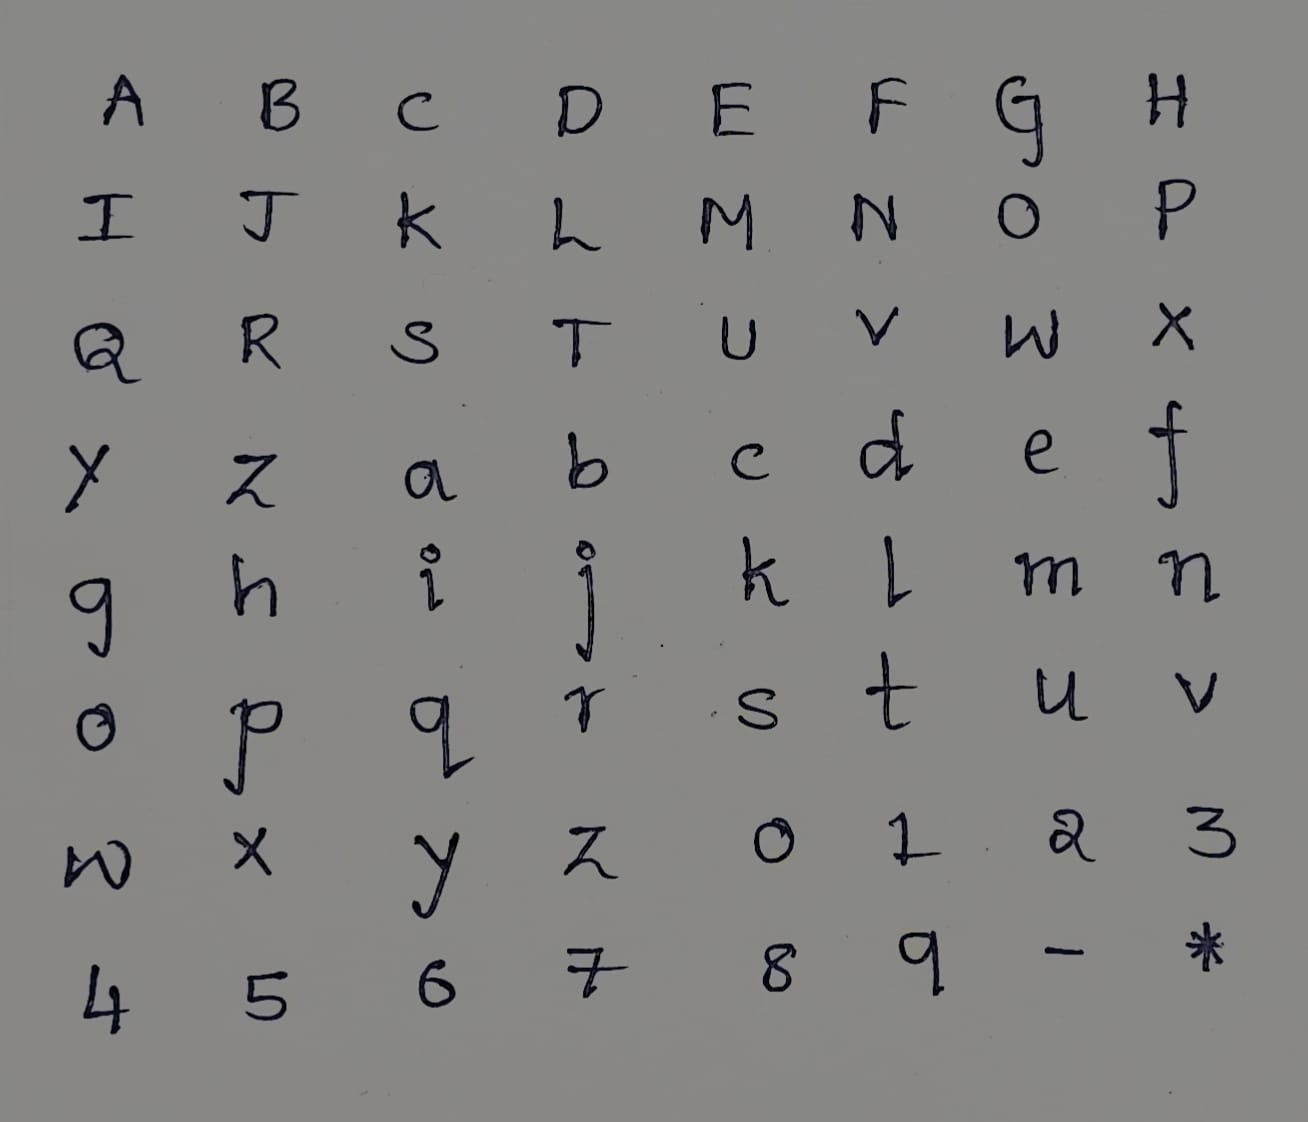
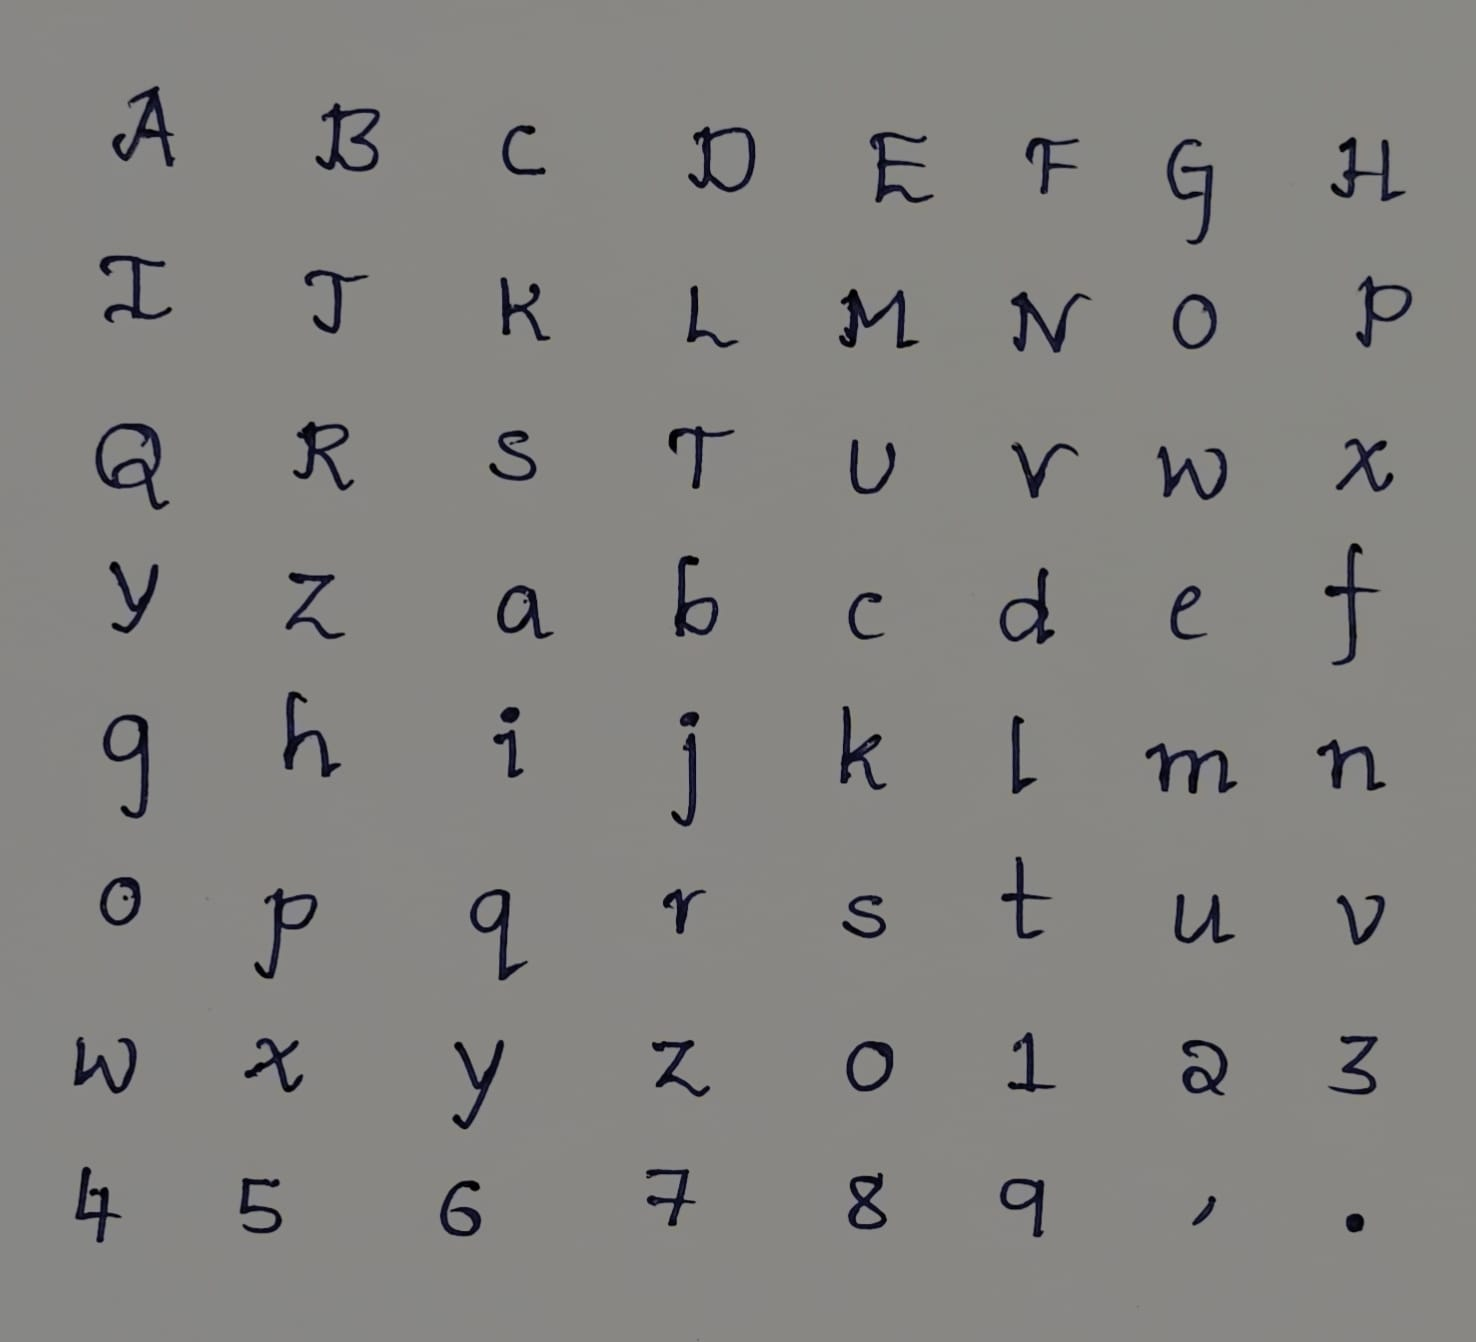
good afternoon

diff --git a/projects/extractor.py b/projects/extractor.py
@@ -5,15 +5,17 @@ from pathlib import Path
 import cv2
 import numpy as np
 
-DEFAULT_IMAGE_PATH = str(Path("handwriting_samples") / "handwriting.jpg")
-DEFAULT_OUTPUT_ROOT = "glyph_sets"
+PROJECT_DIR = Path(__file__).resolve().parent
+DEFAULT_IMAGE_DIR = PROJECT_DIR / "handwriting_samples"
+DEFAULT_IMAGE_PATH = str(DEFAULT_IMAGE_DIR / "handwriting.jpg")
+DEFAULT_OUTPUT_ROOT = PROJECT_DIR / "glyph_sets"
 
 GRID_ROWS = 8
 GRID_COLS = 8
 MIN_COMPONENT_AREA = 6
 PRIMARY_COMPONENT_AREA = 50
 
-LABELS = list("ABCDEFGHIJKLMNOPQRSTUVWXYZabcdefghijklmnopqrstuvwxyz0123456789-*")
+LABELS = list("ABCDEFGHIJKLMNOPQRSTUVWXYZabcdefghijklmnopqrstuvwxyz0123456789,.")
 
 ASCENDERS = set("bdfhklt")
 DESCENDERS = set("gjpqy")
@@ -22,11 +24,36 @@ X_HEIGHT_LOWER = set("acemnorsuvwxz")
 
 def default_output_folder(image_path):
     stem = Path(image_path).stem
-    return str(Path(DEFAULT_OUTPUT_ROOT) / stem)
+    return str(DEFAULT_OUTPUT_ROOT / stem)
 
 
 def default_debug_output_path(output_folder):
     return str(Path(output_folder) / "detected_grid_debug.png")
+
+
+def discover_handwriting_images(image_dir=DEFAULT_IMAGE_DIR):
+    directory = Path(image_dir)
+
+    if not directory.exists():
+        raise FileNotFoundError(f"Handwriting samples folder not found: {directory}")
+
+    images = sorted(directory.glob("handwriting*.jpg"))
+
+    if not images:
+        raise FileNotFoundError(
+            f"No handwriting sample images found in: {directory}"
+        )
+
+    return images
+
+
+def resolve_project_path(path_like):
+    path = Path(path_like)
+    if path.is_absolute():
+        return path
+    if path.exists():
+        return path.resolve()
+    return (PROJECT_DIR / path).resolve()
 
 
 def folder_name(letter):
@@ -34,10 +61,10 @@ def folder_name(letter):
         return letter + "_upper"
     if letter.islower():
         return letter + "_lower"
-    if letter == "-":
-        return "dash"
-    if letter == "*":
-        return "star"
+    if letter == ",":
+        return "comma"
+    if letter == ".":
+        return "dot"
     return letter
 
 
@@ -46,7 +73,7 @@ def glyph_group(letter):
         return "upper"
     if letter.isdigit():
         return "digit"
-    if letter in "-*":
+    if letter in ",.":
         return "symbol"
     if letter in ASCENDERS:
         return "lower_asc"
@@ -347,11 +374,17 @@ def save_debug_overlay(image, cells, path):
 
 
 def extract(image_path=DEFAULT_IMAGE_PATH, output_folder=None, debug_output_path=None):
+    image_path = str(resolve_project_path(image_path))
+
     if output_folder is None:
         output_folder = default_output_folder(image_path)
+    else:
+        output_folder = str(resolve_project_path(output_folder))
 
     if debug_output_path is None:
         debug_output_path = default_debug_output_path(output_folder)
+    else:
+        debug_output_path = str(resolve_project_path(debug_output_path))
 
     os.makedirs(output_folder, exist_ok=True)
     Path(debug_output_path).parent.mkdir(parents=True, exist_ok=True)
@@ -444,14 +477,25 @@ def extract(image_path=DEFAULT_IMAGE_PATH, output_folder=None, debug_output_path
 
 if __name__ == "__main__":
     parser = argparse.ArgumentParser()
-    parser.add_argument("--image", default=DEFAULT_IMAGE_PATH)
+    parser.add_argument("--image")
     parser.add_argument("--output")
     parser.add_argument("--debug-output")
 
     args = parser.parse_args()
 
-    extract(
-        image_path=args.image,
-        output_folder=args.output,
-        debug_output_path=args.debug_output,
-    )
+    if args.image:
+        extract(
+            image_path=args.image,
+            output_folder=args.output,
+            debug_output_path=args.debug_output,
+        )
+    else:
+        if args.output or args.debug_output:
+            raise ValueError(
+                "--output and --debug-output require --image. "
+                "Without --image, extractor processes every handwriting*.jpg sample automatically."
+            )
+
+        for image_path in discover_handwriting_images():
+            print(f"\n=== Extracting dataset from {image_path.name} ===")
+            extract(image_path=str(image_path))

diff --git a/projects/renderer.py b/projects/renderer.py
@@ -5,6 +5,8 @@ import numpy as np
 from pathlib import Path
 from PIL import Image, ImageFilter, ImageEnhance
 
+PROJECT_DIR = Path(__file__).resolve().parent
+
 
 DEFAULT_CFG = {
     "page_width": 1240,
@@ -15,16 +17,16 @@ DEFAULT_CFG = {
     "margin_right": 30,
     "margin_bottom": 180,
 
-    "backgrounds_dir": "backgrounds",
+    "backgrounds_dir": str(PROJECT_DIR / "backgrounds"),
     "background_file": "ruled.png",
 
-    "glyphs_dir": "glyph_sets",
+    "glyphs_dir": str(PROJECT_DIR / "glyph_sets"),
     "glyph_size": 44,
     "render_scale_multiplier": 1.42,
 
     "line_height": 82,
 
-    "char_spacing": 2,
+    "char_spacing": -1,
     "word_spacing": 26,
     "word_spacing_jitter": 3,
     "line_drift_per_word": 0.18,
@@ -68,6 +70,10 @@ def get_char_group(char):
         return "upper"
     if char.isdigit():
         return "digit"
+    if char == ",":
+        return "comma"
+    if char == ".":
+        return "dot"
     if char in "-*.,":
         return "symbol"
     if char in ASCENDERS:
@@ -114,6 +120,18 @@ def get_char_metrics(char):
             "width_factor": 0.92,
             "baseline_shift": 0,
         }
+    if group == "comma":
+        return {
+            "scale_range": (0.28, 0.34),
+            "width_factor": 0.70,
+            "baseline_shift": 10,
+        }
+    if group == "dot":
+        return {
+            "scale_range": (0.22, 0.28),
+            "width_factor": 0.62,
+            "baseline_shift": 0,
+        }
     if group == "symbol":
         return {
             "scale_range": (0.26, 0.32),
@@ -141,6 +159,15 @@ def estimate_word_width(word, cfg):
     return int(width)
 
 
+def resolve_project_path(path_like):
+    path = Path(path_like)
+    if path.is_absolute():
+        return path
+    if path.exists():
+        return path.resolve()
+    return (PROJECT_DIR / path).resolve()
+
+
 def split_glyph_roots(glyphs_dir):
     if isinstance(glyphs_dir, (list, tuple)):
         raw_roots = glyphs_dir
@@ -156,7 +183,7 @@ def split_glyph_roots(glyphs_dir):
         parts = [part.strip() for part in str(root).split(",") if part.strip()]
         roots.extend(parts)
 
-    return [Path(root) for root in roots]
+    return [resolve_project_path(root) for root in roots]
 
 
 def load_glyph_library(glyphs_dir):
@@ -198,7 +225,7 @@ def load_glyph_library(glyphs_dir):
 
 
 def load_background(cfg):
-    bg_path = Path(cfg["backgrounds_dir"]) / cfg["background_file"]
+    bg_path = resolve_project_path(cfg["backgrounds_dir"]) / cfg["background_file"]
 
     if not bg_path.exists():
         page = Image.new(
